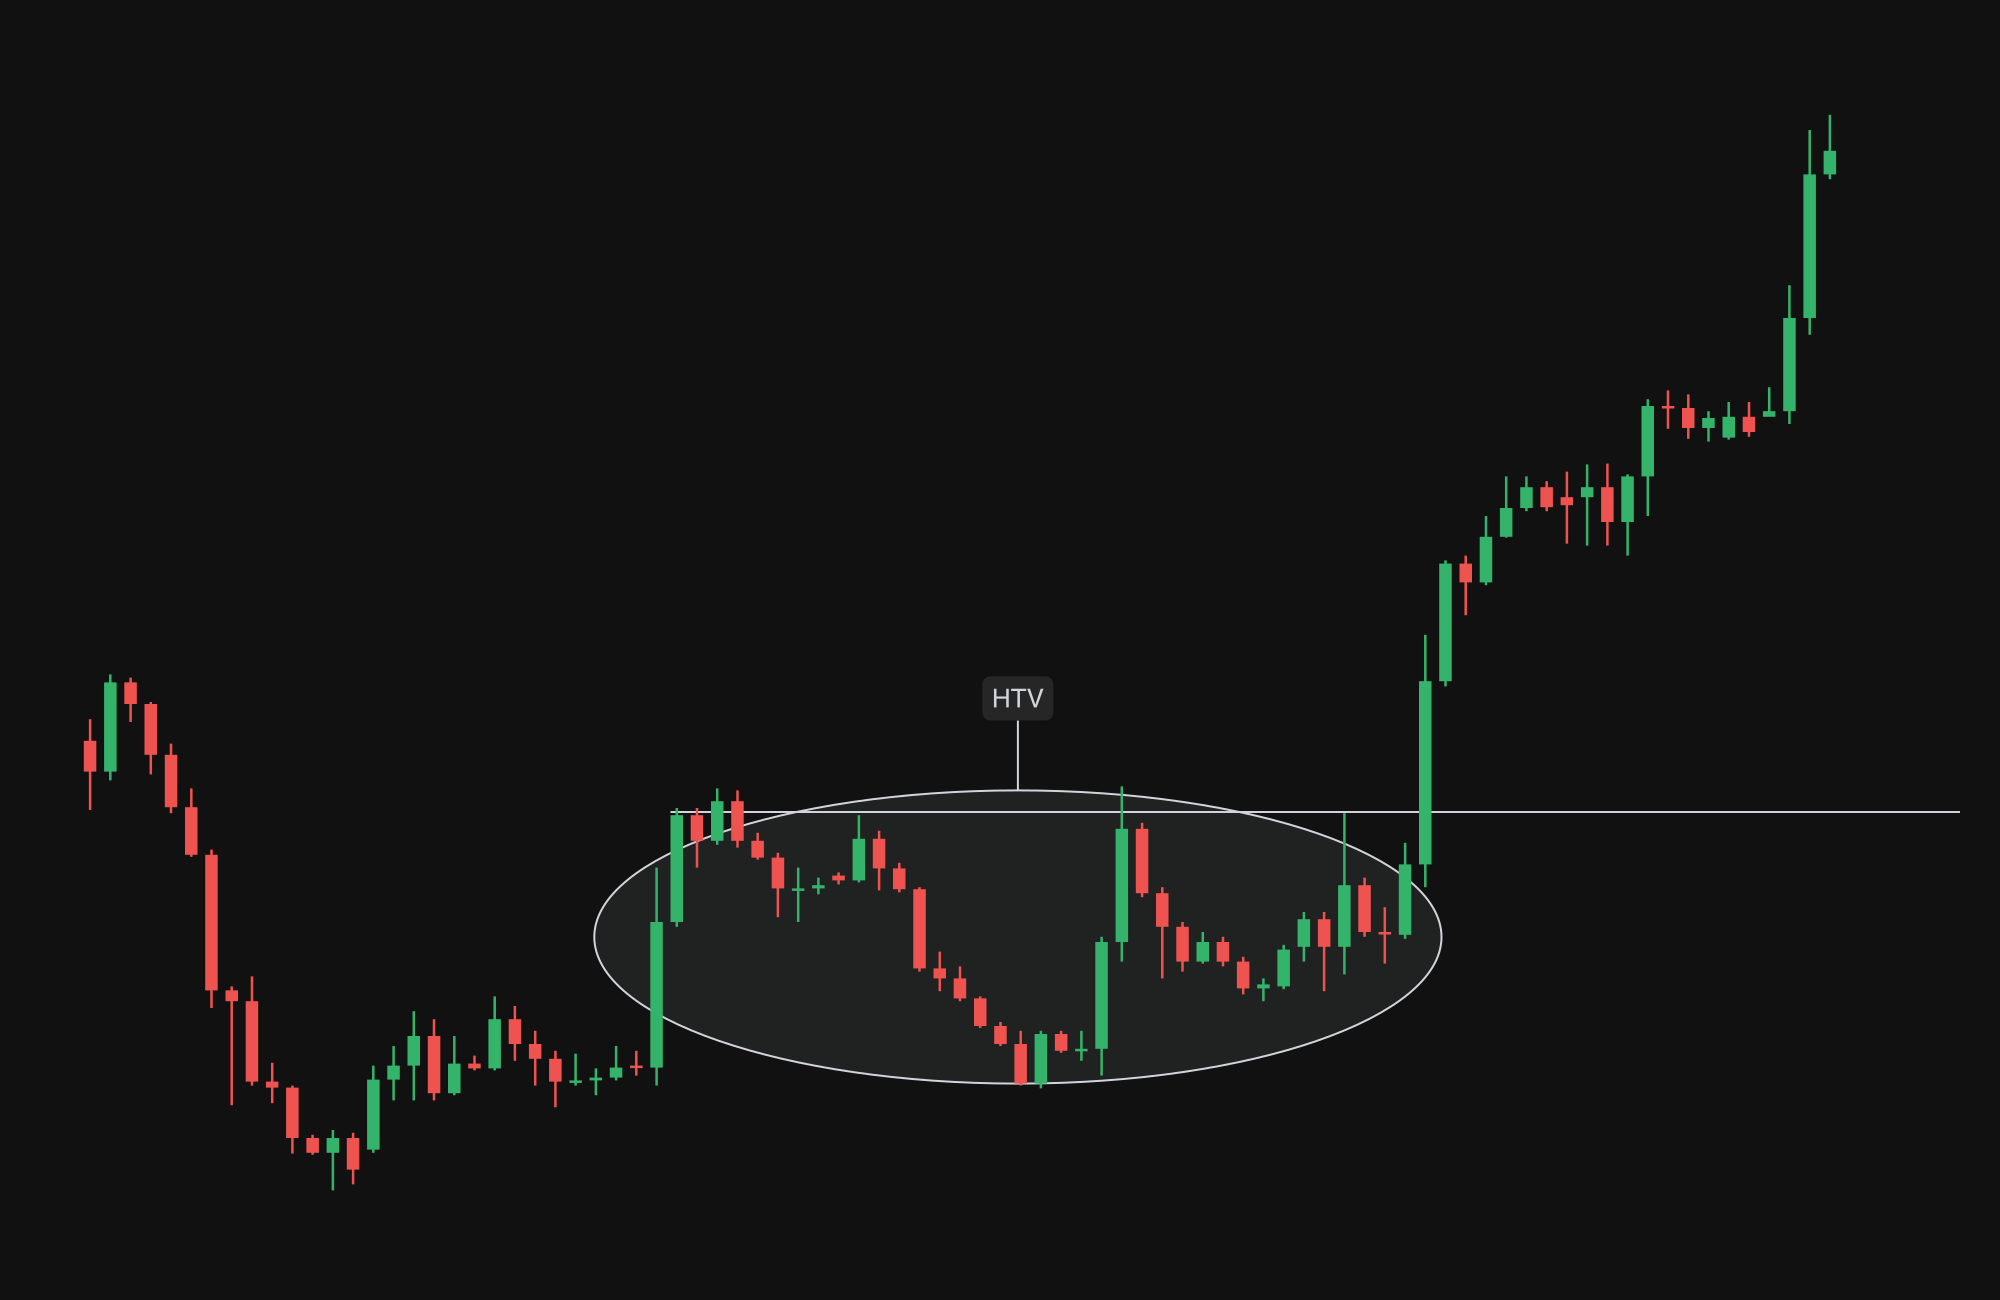
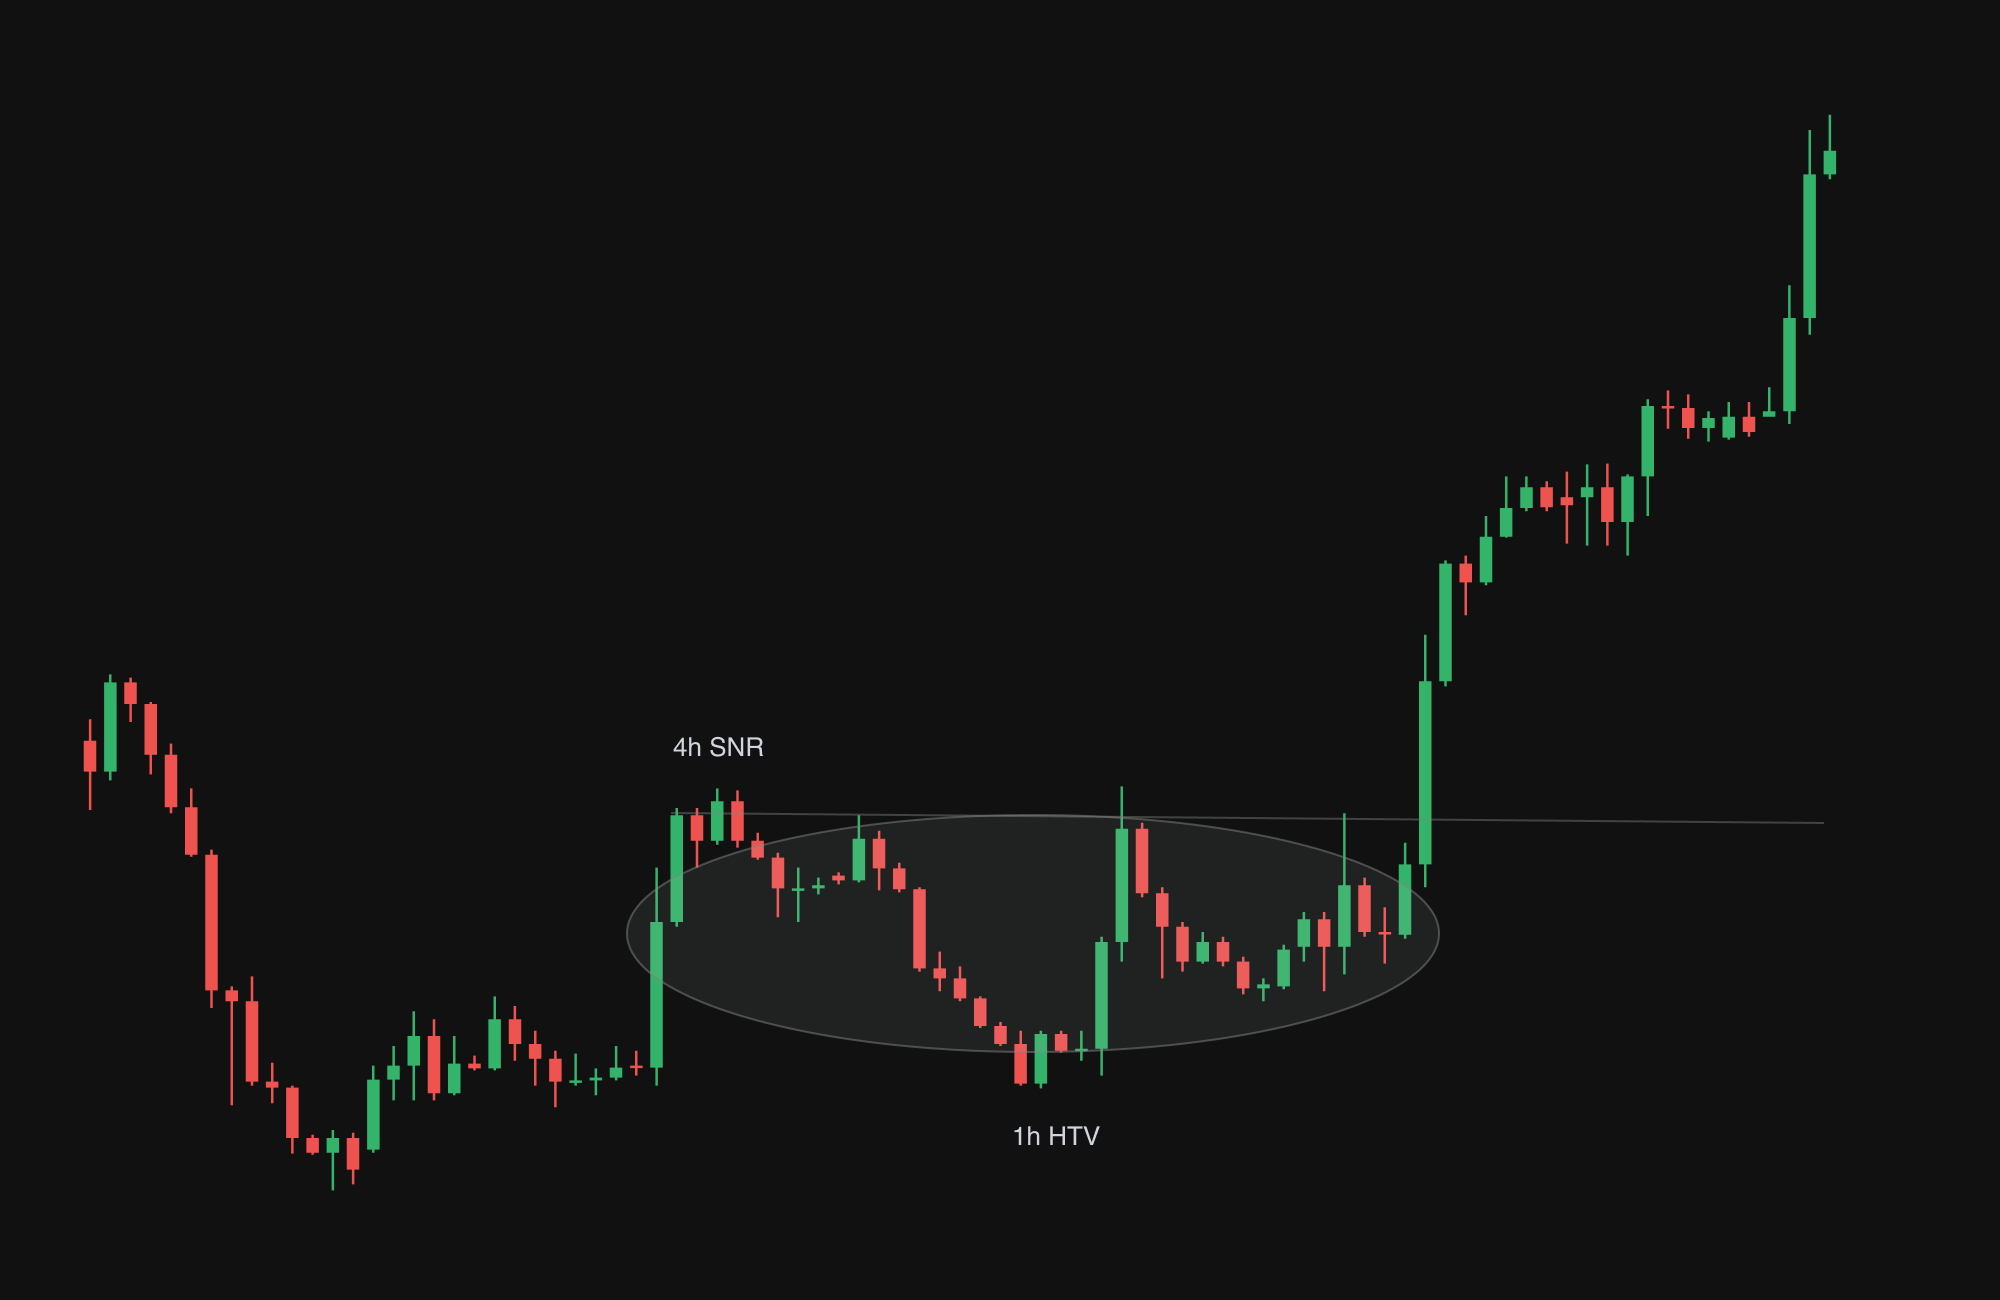
changed text

diff --git a/src/content/glossary/SNR.md b/src/content/glossary/SNR.md
@@ -8,15 +8,13 @@ images:
   - src: /glossary/snr-2.png
     label: 1h – Внутри HTV
   - src: /glossary/snr-3.png
-    label: FVG как валидация SNR
-  - src: /glossary/snr-4.png
-    label: Test как валидация SNR
+    label: FVG и Test как валидация SNR
 ---
 
 SNR – элемент Price Action, показывающий дисбаланс одной из сторон и выступающий уровнем поддержки и сопротивления.
 
 ### Как формируется
-SNR формируется после пробития зоны Support/Resistance и закреплением телом за этой зоной, что говорит о явной доминации одной из сторон. Из чего следует, что SNR является зоной HTV.
+SNR формируется после пробития зоны Support/Resistance и закрепления телом за этой зоной, что говорит о явной доминации одной из сторон. Из чего следует, что SNR является зоной HTV.
 
 ### Что значит на графике:
 - HTV –> Support/Resistance
@@ -26,9 +24,6 @@ SNR формируется после пробития зоны Support/Resistan
 - VC
 - Entry VC
 
-Особенности:
-
-SNR + X-1 TF FVG
-Если внутри SNR формируется FVG на X-1 это дополнительно валидирует истинность движения/пробития.
-
-Протестированный SNR дополнительно валидирует истинность движения/пробития.
+### Особенности:
+- **SNR + X-1 TF FVG** – если внутри SNR формируется FVG на X-1 TF, это дополнительно валидирует истинность движения/пробития.
+- Протестированный SNR (Test) дополнительно валидирует истинность движения/пробития.
